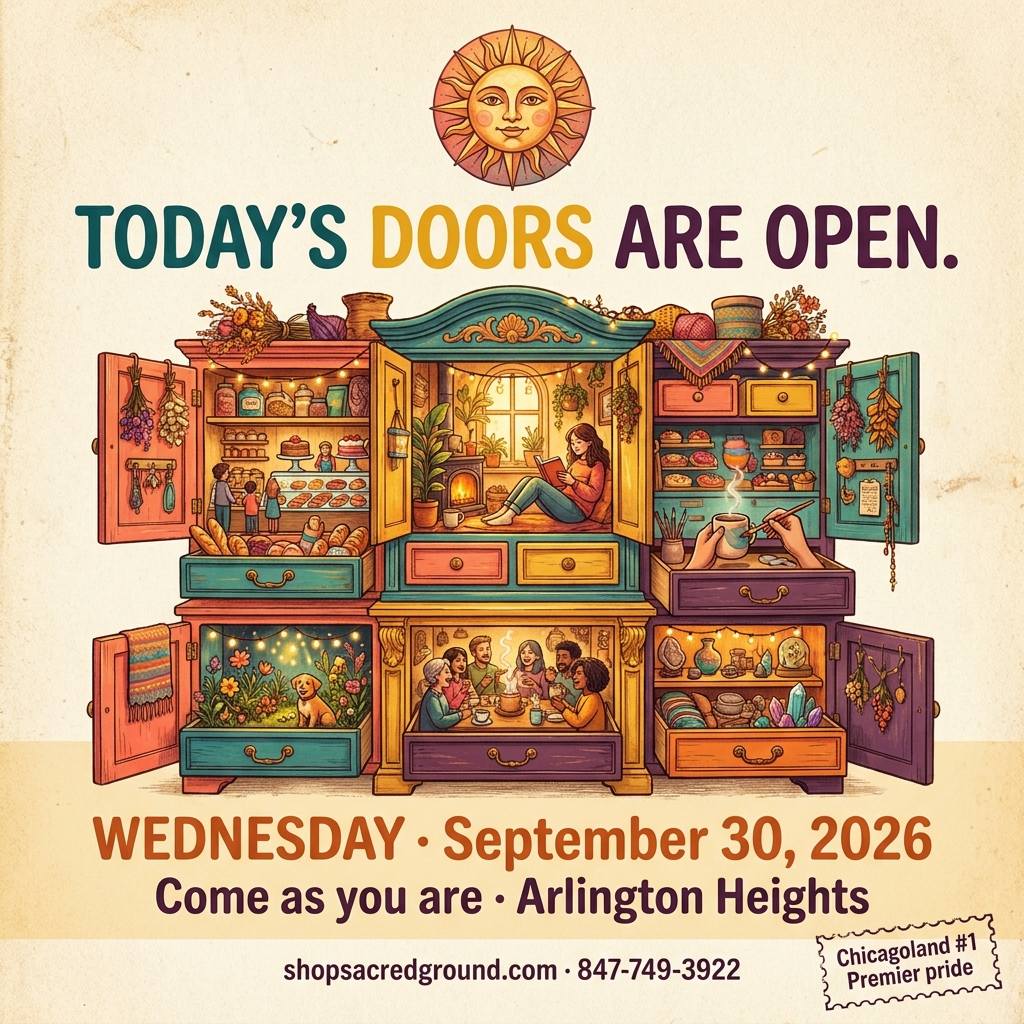
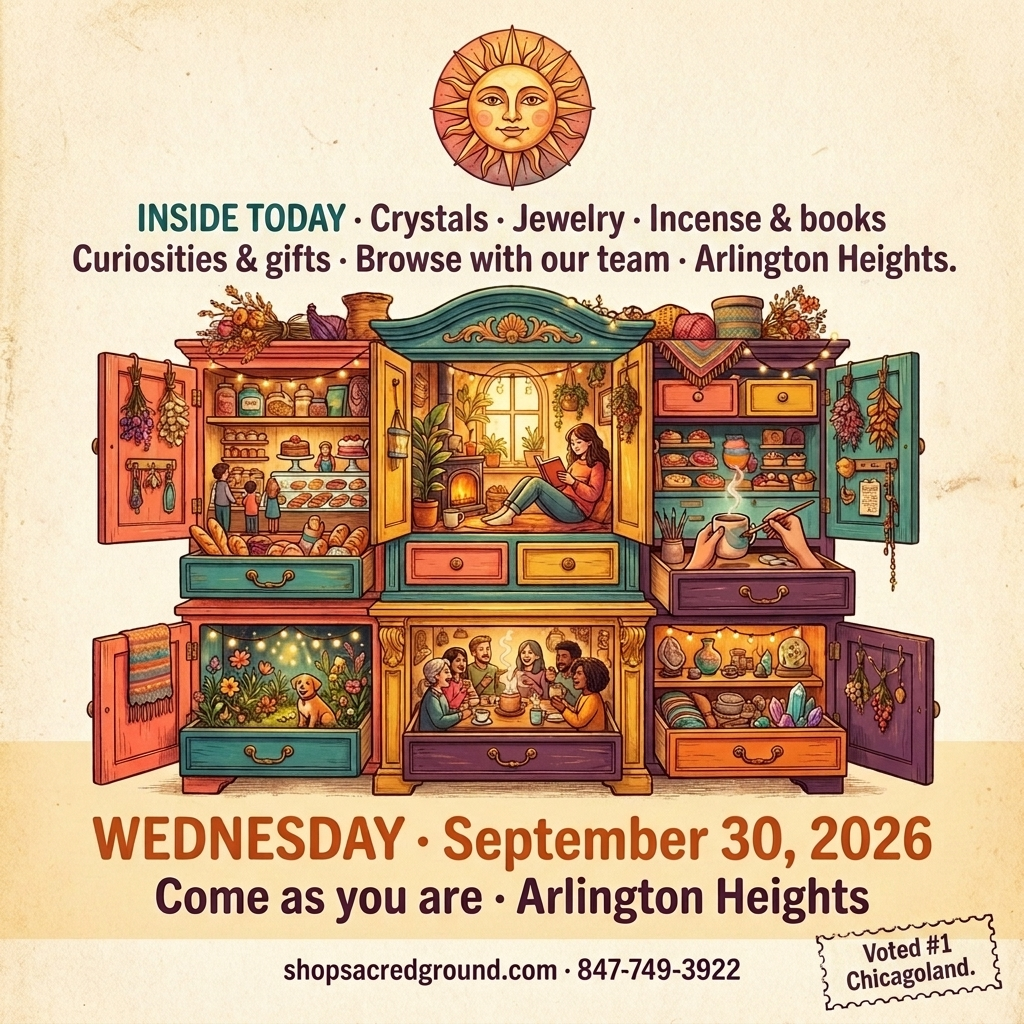
Remake Sep 15 museum schedule; add shop inventory to Sep 25–30 plates.
Keep visit-day designs; name crystals, jewelry, candles/incense, books, and team browse copy; fix Sep 15 Amber/Janel/Meditation attribution.

diff --git a/assets/SEPTEMBER-FLYERS/OPEN-ME.html b/assets/SEPTEMBER-FLYERS/OPEN-ME.html
@@ -1,12 +1,1 @@
-<!DOCTYPE html><html><head><meta charset="utf-8"/><title>September morning flyers</title>
-<style>
-body{margin:0;font-family:system-ui;background:#1a1512;color:#f7f1e8;padding:24px}
-.grid{display:grid;grid-template-columns:repeat(auto-fill,minmax(220px,1fr));gap:16px}
-.card{background:#2a221c;border-radius:14px;overflow:hidden;text-decoration:none;color:inherit;border:1px solid #3b3028}
-img{width:100%;aspect-ratio:1;object-fit:cover;display:block}
-.cap{padding:10px 12px;font-weight:600}
-p{color:#c9b8a4}
-</style></head><body>
-<h1>September morning flyers (restored unique styles)</h1>
-<p>Surprise plates restored · Labor Day / birthday / Sep 18 readability remakes kept</p>
-<div class="grid"><a class="card" href="2026-09-05.jpg" target="_blank"><img src="2026-09-05.jpg" alt="Sat · Sep 5" loading="lazy"/><div class="cap">Sat · Sep 5</div></a><a class="card" href="2026-09-06.jpg" target="_blank"><img src="2026-09-06.jpg" alt="Sun · Sep 6" loading="lazy"/><div class="cap">Sun · Sep 6</div></a><a class="card" href="2026-09-07.jpg" target="_blank"><img src="2026-09-07.jpg" alt="Mon · Sep 7" loading="lazy"/><div class="cap">Mon · Sep 7</div></a><a class="card" href="2026-09-08.jpg" target="_blank"><img src="2026-09-08.jpg" alt="Tue · Sep 8" loading="lazy"/><div class="cap">Tue · Sep 8</div></a><a class="card" href="2026-09-09.jpg" target="_blank"><img src="2026-09-09.jpg" alt="Wed · Sep 9" loading="lazy"/><div class="cap">Wed · Sep 9</div></a><a class="card" href="2026-09-10.jpg" target="_blank"><img src="2026-09-10.jpg" alt="Thu · Sep 10" loading="lazy"/><div class="cap">Thu · Sep 10</div></a><a class="card" href="2026-09-11.jpg" target="_blank"><img src="2026-09-11.jpg" alt="Fri · Sep 11" loading="lazy"/><div class="cap">Fri · Sep 11</div></a><a class="card" href="2026-09-12.jpg" target="_blank"><img src="2026-09-12.jpg" alt="Sat · Sep 12" loading="lazy"/><div class="cap">Sat · Sep 12</div></a><a class="card" href="2026-09-13.jpg" target="_blank"><img src="2026-09-13.jpg" alt="Sun · Sep 13" loading="lazy"/><div class="cap">Sun · Sep 13</div></a><a class="card" href="2026-09-14.jpg" target="_blank"><img src="2026-09-14.jpg" alt="Mon · Sep 14" loading="lazy"/><div class="cap">Mon · Sep 14</div></a><a class="card" href="2026-09-15.jpg" target="_blank"><img src="2026-09-15.jpg" alt="Tue · Sep 15" loading="lazy"/><div class="cap">Tue · Sep 15</div></a><a class="card" href="2026-09-16.jpg" target="_blank"><img src="2026-09-16.jpg" alt="Wed · Sep 16" loading="lazy"/><div class="cap">Wed · Sep 16</div></a><a class="card" href="2026-09-17.jpg" target="_blank"><img src="2026-09-17.jpg" alt="Thu · Sep 17" loading="lazy"/><div class="cap">Thu · Sep 17</div></a><a class="card" href="2026-09-18.jpg" target="_blank"><img src="2026-09-18.jpg" alt="Fri · Sep 18" loading="lazy"/><div class="cap">Fri · Sep 18</div></a><a class="card" href="2026-09-19.jpg" target="_blank"><img src="2026-09-19.jpg" alt="Sat · Sep 19" loading="lazy"/><div class="cap">Sat · Sep 19</div></a><a class="card" href="2026-09-20.jpg" target="_blank"><img src="2026-09-20.jpg" alt="Sun · Sep 20" loading="lazy"/><div class="cap">Sun · Sep 20</div></a><a class="card" href="2026-09-21.jpg" target="_blank"><img src="2026-09-21.jpg" alt="Mon · Sep 21" loading="lazy"/><div class="cap">Mon · Sep 21</div></a><a class="card" href="2026-09-22.jpg" target="_blank"><img src="2026-09-22.jpg" alt="Tue · Sep 22" loading="lazy"/><div class="cap">Tue · Sep 22</div></a><a class="card" href="2026-09-23.jpg" target="_blank"><img src="2026-09-23.jpg" alt="Wed · Sep 23" loading="lazy"/><div class="cap">Wed · Sep 23</div></a><a class="card" href="2026-09-24.jpg" target="_blank"><img src="2026-09-24.jpg" alt="Thu · Sep 24" loading="lazy"/><div class="cap">Thu · Sep 24</div></a><a class="card" href="2026-09-25.jpg" target="_blank"><img src="2026-09-25.jpg" alt="Fri · Sep 25" loading="lazy"/><div class="cap">Fri · Sep 25</div></a><a class="card" href="2026-09-26.jpg" target="_blank"><img src="2026-09-26.jpg" alt="Sat · Sep 26" loading="lazy"/><div class="cap">Sat · Sep 26</div></a><a class="card" href="2026-09-27.jpg" target="_blank"><img src="2026-09-27.jpg" alt="Sun · Sep 27" loading="lazy"/><div class="cap">Sun · Sep 27</div></a><a class="card" href="2026-09-28.jpg" target="_blank"><img src="2026-09-28.jpg" alt="Mon · Sep 28" loading="lazy"/><div class="cap">Mon · Sep 28</div></a><a class="card" href="2026-09-29.jpg" target="_blank"><img src="2026-09-29.jpg" alt="Tue · Sep 29" loading="lazy"/><div class="cap">Tue · Sep 29</div></a><a class="card" href="2026-09-30.jpg" target="_blank"><img src="2026-09-30.jpg" alt="Wed · Sep 30" loading="lazy"/><div class="cap">Wed · Sep 30</div></a></div></body></html>
+<!DOCTYPE html><html><head><meta charset=utf-8><title>September morning flyers</title><style>body{margin:0;font-family:system-ui;background:#1a1512;color:#f7f1e8;padding:24px}.grid{display:grid;grid-template-columns:repeat(auto-fill,minmax(220px,1fr));gap:16px}.card{background:#2a221c;border-radius:14px;overflow:hidden;text-decoration:none;color:inherit;border:1px solid #3b3028}img{width:100%;aspect-ratio:1;object-fit:cover;display:block}.cap{padding:10px 12px;font-weight:600}</style></head><body><h1>September morning flyers</h1><p>Sep 15 remade · 25–30 shop inventory added (designs kept)</p><div class="grid"><a class="card" href="2026-09-05.jpg" target="_blank"><img src="2026-09-05.jpg" alt="2026-09-05" loading="lazy"/><div class="cap">Sat · Sep 5</div></a><a class="card" href="2026-09-06.jpg" target="_blank"><img src="2026-09-06.jpg" alt="2026-09-06" loading="lazy"/><div class="cap">Sun · Sep 6</div></a><a class="card" href="2026-09-07.jpg" target="_blank"><img src="2026-09-07.jpg" alt="2026-09-07" loading="lazy"/><div class="cap">Mon · Sep 7</div></a><a class="card" href="2026-09-08.jpg" target="_blank"><img src="2026-09-08.jpg" alt="2026-09-08" loading="lazy"/><div class="cap">Tue · Sep 8</div></a><a class="card" href="2026-09-09.jpg" target="_blank"><img src="2026-09-09.jpg" alt="2026-09-09" loading="lazy"/><div class="cap">Wed · Sep 9</div></a><a class="card" href="2026-09-10.jpg" target="_blank"><img src="2026-09-10.jpg" alt="2026-09-10" loading="lazy"/><div class="cap">Thu · Sep 10</div></a><a class="card" href="2026-09-11.jpg" target="_blank"><img src="2026-09-11.jpg" alt="2026-09-11" loading="lazy"/><div class="cap">Fri · Sep 11</div></a><a class="card" href="2026-09-12.jpg" target="_blank"><img src="2026-09-12.jpg" alt="2026-09-12" loading="lazy"/><div class="cap">Sat · Sep 12</div></a><a class="card" href="2026-09-13.jpg" target="_blank"><img src="2026-09-13.jpg" alt="2026-09-13" loading="lazy"/><div class="cap">Sun · Sep 13</div></a><a class="card" href="2026-09-14.jpg" target="_blank"><img src="2026-09-14.jpg" alt="2026-09-14" loading="lazy"/><div class="cap">Mon · Sep 14</div></a><a class="card" href="2026-09-15.jpg" target="_blank"><img src="2026-09-15.jpg" alt="2026-09-15" loading="lazy"/><div class="cap">Tue · Sep 15</div></a><a class="card" href="2026-09-16.jpg" target="_blank"><img src="2026-09-16.jpg" alt="2026-09-16" loading="lazy"/><div class="cap">Wed · Sep 16</div></a><a class="card" href="2026-09-17.jpg" target="_blank"><img src="2026-09-17.jpg" alt="2026-09-17" loading="lazy"/><div class="cap">Thu · Sep 17</div></a><a class="card" href="2026-09-18.jpg" target="_blank"><img src="2026-09-18.jpg" alt="2026-09-18" loading="lazy"/><div class="cap">Fri · Sep 18</div></a><a class="card" href="2026-09-19.jpg" target="_blank"><img src="2026-09-19.jpg" alt="2026-09-19" loading="lazy"/><div class="cap">Sat · Sep 19</div></a><a class="card" href="2026-09-20.jpg" target="_blank"><img src="2026-09-20.jpg" alt="2026-09-20" loading="lazy"/><div class="cap">Sun · Sep 20</div></a><a class="card" href="2026-09-21.jpg" target="_blank"><img src="2026-09-21.jpg" alt="2026-09-21" loading="lazy"/><div class="cap">Mon · Sep 21</div></a><a class="card" href="2026-09-22.jpg" target="_blank"><img src="2026-09-22.jpg" alt="2026-09-22" loading="lazy"/><div class="cap">Tue · Sep 22</div></a><a class="card" href="2026-09-23.jpg" target="_blank"><img src="2026-09-23.jpg" alt="2026-09-23" loading="lazy"/><div class="cap">Wed · Sep 23</div></a><a class="card" href="2026-09-24.jpg" target="_blank"><img src="2026-09-24.jpg" alt="2026-09-24" loading="lazy"/><div class="cap">Thu · Sep 24</div></a><a class="card" href="2026-09-25.jpg" target="_blank"><img src="2026-09-25.jpg" alt="2026-09-25" loading="lazy"/><div class="cap">Fri · Sep 25</div></a><a class="card" href="2026-09-26.jpg" target="_blank"><img src="2026-09-26.jpg" alt="2026-09-26" loading="lazy"/><div class="cap">Sat · Sep 26</div></a><a class="card" href="2026-09-27.jpg" target="_blank"><img src="2026-09-27.jpg" alt="2026-09-27" loading="lazy"/><div class="cap">Sun · Sep 27</div></a><a class="card" href="2026-09-28.jpg" target="_blank"><img src="2026-09-28.jpg" alt="2026-09-28" loading="lazy"/><div class="cap">Mon · Sep 28</div></a><a class="card" href="2026-09-29.jpg" target="_blank"><img src="2026-09-29.jpg" alt="2026-09-29" loading="lazy"/><div class="cap">Tue · Sep 29</div></a><a class="card" href="2026-09-30.jpg" target="_blank"><img src="2026-09-30.jpg" alt="2026-09-30" loading="lazy"/><div class="cap">Wed · Sep 30</div></a></div></body></html>
